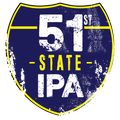
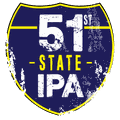
Compress PNGs; SW v20

diff --git a/sw.js b/sw.js
@@ -1,4 +1,4 @@
-const C='beer-v19',A=['./','index.html','tree.html','map.html','style.css','app.js','map.js','menu.html','menu.js','nav.js','data.js','manifest.json','icon-192.png','icon-512.png','images/01-t.jpg','images/01.jpg','images/02-t.jpg','images/02.jpg','images/03-t.jpg','images/03.jpg','images/04-t.png','images/04.png','images/05-t.png','images/05.png','images/06-t.jpg','images/06.jpg','images/07-t.jpg','images/07.jpg','images/08-t.jpg','images/08.jpg','images/09-t.jpg','images/09.jpg','images/10-t.jpg','images/10.jpg','images/11-t.jpg','images/11.jpg','images/12-t.jpg','images/12.jpg','images/13-t.jpg','images/13.jpg','images/14-t.jpg','images/14.jpg','images/15-t.jpg','images/15.jpg','images/16-t.jpg','images/16.jpg','images/17-t.jpg','images/17.jpg','images/glass.svg'];
+const C='beer-v20',A=['./','index.html','tree.html','map.html','style.css','app.js','map.js','menu.html','menu.js','nav.js','data.js','manifest.json','icon-192.png','icon-512.png','images/01-t.jpg','images/01.jpg','images/02-t.jpg','images/02.jpg','images/03-t.jpg','images/03.jpg','images/04-t.png','images/04.png','images/05-t.png','images/05.png','images/06-t.jpg','images/06.jpg','images/07-t.jpg','images/07.jpg','images/08-t.jpg','images/08.jpg','images/09-t.jpg','images/09.jpg','images/10-t.jpg','images/10.jpg','images/11-t.jpg','images/11.jpg','images/12-t.jpg','images/12.jpg','images/13-t.jpg','images/13.jpg','images/14-t.jpg','images/14.jpg','images/15-t.jpg','images/15.jpg','images/16-t.jpg','images/16.jpg','images/17-t.jpg','images/17.jpg','images/glass.svg'];
 self.addEventListener('install',e=>{self.skipWaiting();e.waitUntil(caches.open(C).then(c=>c.addAll(A.map(u=>new Request(u,{cache:'reload'})))))});
 self.addEventListener('activate',e=>e.waitUntil(caches.keys().then(k=>Promise.all(k.filter(x=>x!==C).map(x=>caches.delete(x)))).then(()=>self.clients.claim())));
 self.addEventListener('fetch',e=>{const r=e.request;if(r.method!=='GET')return;const u=new URL(r.url);
